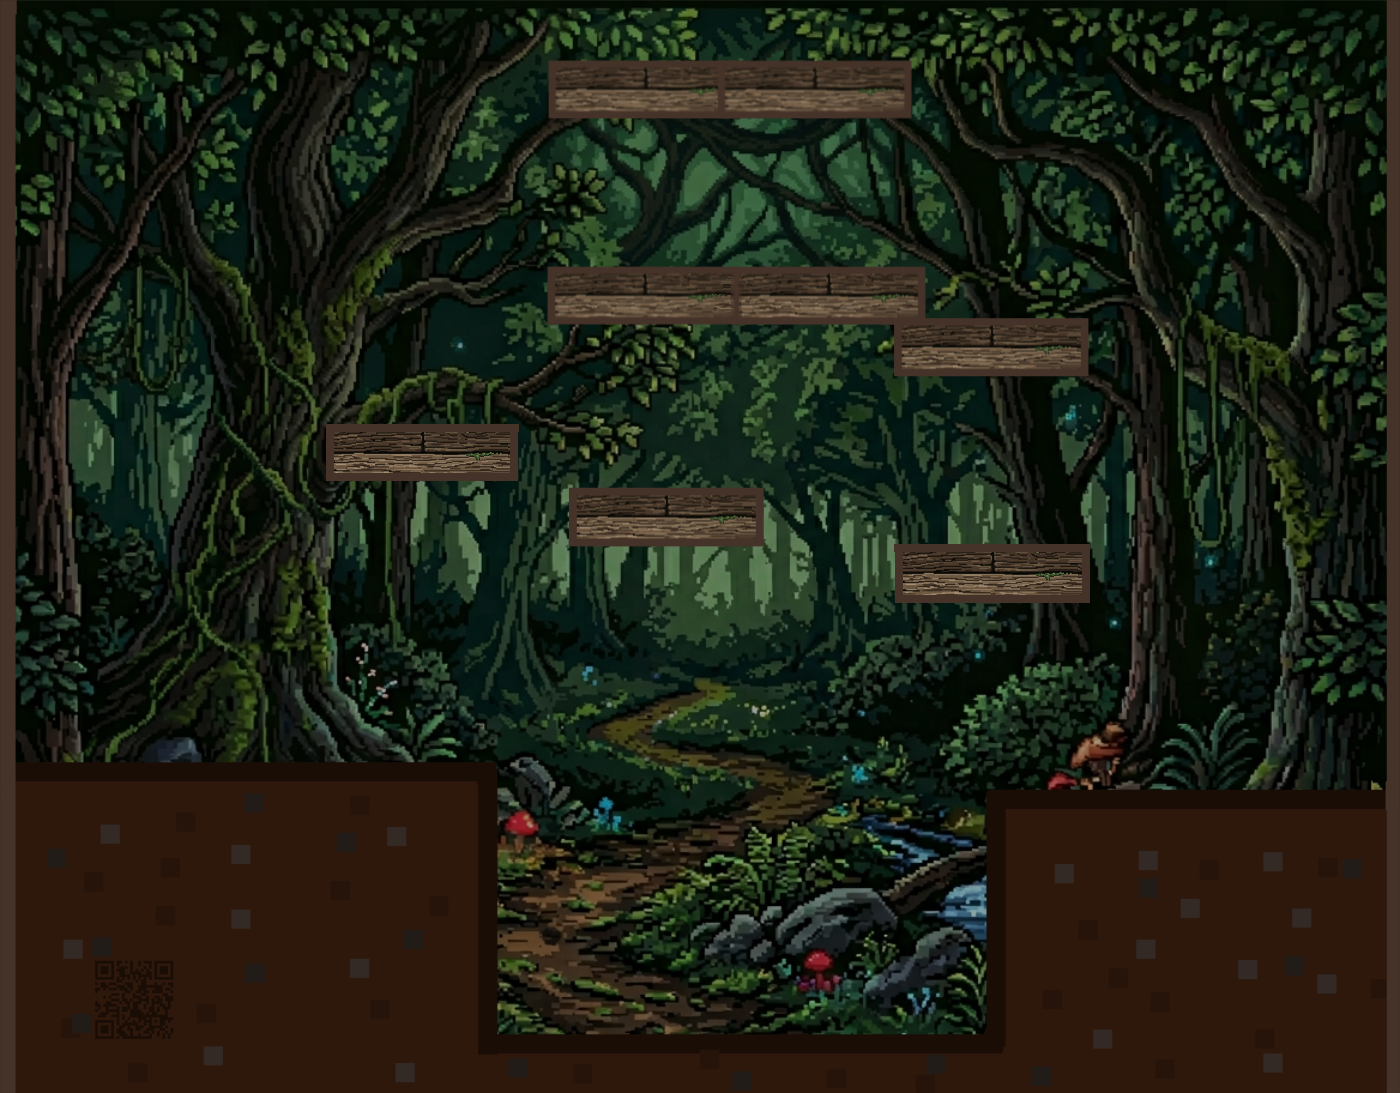
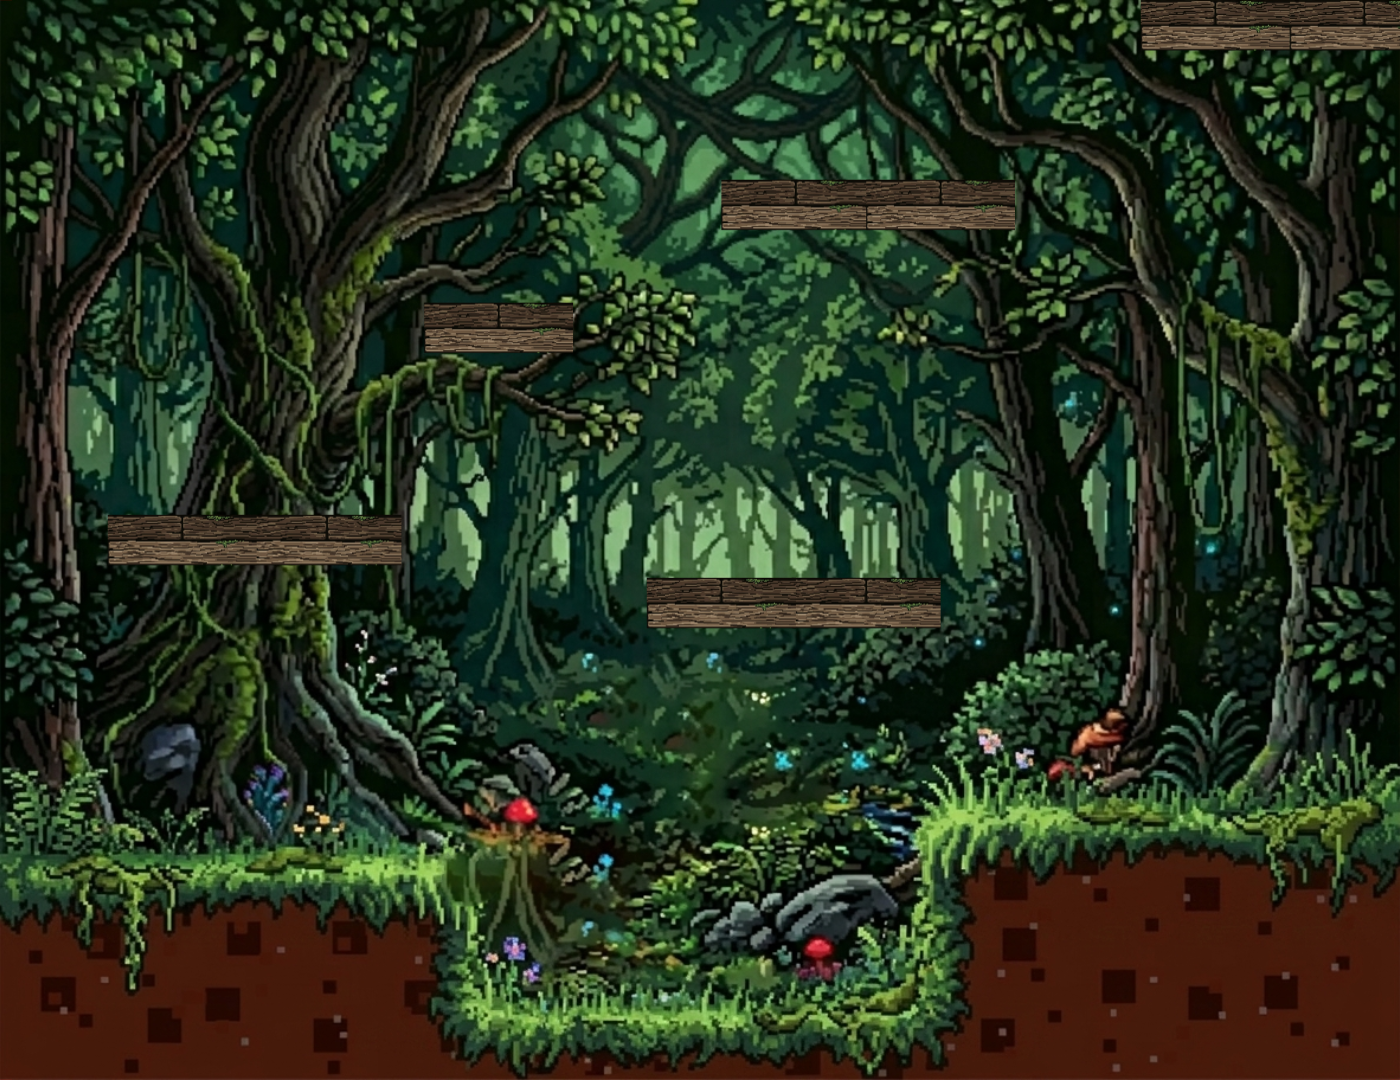
changed levels, added smooth movement and velocity that bleeds out when falling

diff --git a/src/Windows/GameLoop.java b/src/Windows/GameLoop.java
@@ -15,7 +15,7 @@ public class GameLoop implements Runnable{
 
     private GamePanel panel;
     private final Player player;
-    private final int FPS = 120;
+    private final int FPS = 90;
     private BufferedImage image;
 
 
@@ -65,17 +65,19 @@ public class GameLoop implements Runnable{
             /**
              * Level background changing logic
              */
-            if(player.getY()<0){
+            if(player.getY()<5){
                 player.setCurrLevel(player.getCurrLevel()+1);
                 System.out.println("level changed");
                 player.setY(990);
                 panel.setLevelChanged(true);
+                panel.repaint();
             }
             else if(player.getY()>990&&player.getCurrLevel()!=0){
                 player.setCurrLevel(player.getCurrLevel()-1);
                 System.out.println("level changed");
                 player.setY(0);
                 panel.setLevelChanged(true);
+                panel.repaint();
             }
 
             /**
@@ -83,14 +85,19 @@ public class GameLoop implements Runnable{
              */
             if(!player.isJumping()&&player.getJumpForce()>0) {
                 player.setJumpForce(player.getJumpForce() - 5);
-                player.setY(player.getY() - 15 );
+                if(!player.getLevel().checkHeadCollision(panel.isLevelChanged(), player.getCurrLevel(), player.getX(), player.getY())) {
+                    player.setY(player.getY() - 15 );
+                }
                 System.out.println("Y"+player.getY());
             }
             else if (!player.isJumping()&&player.getJumpForceL()>0) {
                 player.setJumpForceL(player.getJumpForceL() - 5);
-                player.setY(player.getY() - 12);
+                if(!player.getLevel().checkHeadCollision(panel.isLevelChanged(), player.getCurrLevel(), player.getX(), player.getY())) {
+                    player.setY(player.getY() - 15 );
+                }
                 if (!player.getLevel().checkWallCollision(panel.isLevelChanged(), player.getCurrLevel(), player.getX(), player.getY())[0]){
                     player.setX(player.getX() - 10);
+                    player.setVelocity(-30);
                 }
                 else{
                     player.setJumpForceR(20);
@@ -100,9 +107,12 @@ public class GameLoop implements Runnable{
             }
             else if (!player.isJumping()&&player.getJumpForceR()>0) {
                 player.setJumpForceR(player.getJumpForceR() - 5);
-                player.setY(player.getY() - 12);
+                if(!player.getLevel().checkHeadCollision(panel.isLevelChanged(), player.getCurrLevel(), player.getX(), player.getY())) {
+                    player.setY(player.getY() - 15 );
+                }
                 if (!player.getLevel().checkWallCollision(panel.isLevelChanged(), player.getCurrLevel(), player.getX(), player.getY())[1]){
                     player.setX(player.getX() + 10);
+                    player.setVelocity(30);
                 }
                 else{
                     player.setJumpForceL(20);
@@ -114,17 +124,36 @@ public class GameLoop implements Runnable{
             /**
              * Player basic movement
              */
+
+
+
             else if (panel.getPlayer().isWalkingR() && !panel.getPlayer().isJumping() && !player.isFalling()) {
-                if (!player.getLevel().checkWallCollision(panel.isLevelChanged(), player.getCurrLevel(), player.getX(), player.getY())[1]){
-                    player.setX(player.getX() + 5);
-                    System.out.println("right");
+                if (player.getVelocity()!=5){
+                    player.setVelocity(30);
                 }
             }
             else if (player.isWalkingL()&&!panel.getPlayer().isJumping() && !player.isFalling()) {
-                if (!player.getLevel().checkWallCollision(panel.isLevelChanged(), player.getCurrLevel(), player.getX(), player.getY())[0]){
-                    player.setX(player.getX() - 5);
-                    System.out.println("left");
+                if (player.getVelocity()!=-5){
+                    player.setVelocity(-30);
                 }
+            }
+
+            if (player.getVelocity()!=0 && !panel.getPlayer().isJumping()){
+                if (player.getVelocity()<0 && !player.getLevel().checkWallCollision(panel.isLevelChanged(), player.getCurrLevel(), player.getX(), player.getY())[0] && !player.isFalling()){
+                    player.setX(player.getX() + player.getVelocity()/15);
+                }
+                else if (player.getVelocity()>0 && !player.getLevel().checkWallCollision(panel.isLevelChanged(), player.getCurrLevel(), player.getX(), player.getY())[1] && !player.isFalling()) {
+                    player.setX(player.getX() + player.getVelocity()/15);
+                }
+
+                if (!player.isWalkingR() && player.getVelocity()>0 && !player.isJumping()){
+                    player.setVelocity(player.getVelocity() -1);
+                }
+                else if (!player.isWalkingL() && player.getVelocity()<0 && player.getJumpForce()==0 && player.getJumpForceL()==0 && player.getJumpForceR()==0){
+                    player.setVelocity(player.getVelocity() +1);
+                }
+
+
             }
 
             /**
@@ -168,6 +197,14 @@ public class GameLoop implements Runnable{
              */
             if (player.isFalling()){
                 player.setY(player.getY()+ player.getFallingSpeed());
+                player.setX(player.getX() + player.getVelocity()/5);
+                if (player.getVelocity()>0){
+                    player.setVelocity(player.getVelocity()-1);
+                }
+                else if (player.getVelocity()<0){
+                    player.setVelocity(player.getVelocity()+1);
+                }
+
             }
 
 

diff --git a/src/Map/Levels.java b/src/Map/Levels.java
@@ -13,8 +13,9 @@ public class Levels {
 
     private int currLevel;
     private final String[] levelMap = {"res/levels/level11.png","res/levels/level12.png"};
+    private final String[] collisionMap = {"res/levels/collisionMaps/clevel11.png","res/levels/collisionMaps/clevel12.png"};
 
-    private final int[] collisionColors = {new Color(26,13,6).getRGB(), new Color(69,50,40).getRGB()};
+    private final int[] collisionColors = {new Color(255,0,0).getRGB(), new Color(69,50,40).getRGB()};
     private BufferedImage image;
 
 
@@ -24,7 +25,7 @@ public class Levels {
         this.currLevel = currLevel;
 
         try {
-            fis = new FileInputStream(levelMap[currLevel]);
+            fis = new FileInputStream(collisionMap[currLevel]);
             image = ImageIO.read(fis);
         } catch (IOException e) {
             throw new RuntimeException(e);
@@ -39,7 +40,7 @@ public class Levels {
 
         if (levelChanged) {
             try {
-                fis = new FileInputStream(levelMap[playerLevel]);
+                fis = new FileInputStream(collisionMap[playerLevel]);
                 image = ImageIO.read(fis);
                 System.out.println(" collision map changed");
             } catch (IOException e) {
@@ -61,6 +62,34 @@ public class Levels {
         return collision;
     }
 
+    public boolean checkHeadCollision(boolean levelChanged, int playerLevel, int x, int y) {
+        boolean collision = false;
+        x = x+15;
+
+        if (levelChanged) {
+            try {
+                fis = new FileInputStream(collisionMap[playerLevel]);
+                image = ImageIO.read(fis);
+                System.out.println(" collision map changed");
+            } catch (IOException e) {
+                throw new RuntimeException(e);
+            }
+        }
+
+        for (int i = 0; i <collisionColors.length; i++){
+            try {
+                if (image.getRGB(x, y) == collisionColors[i] && y>20){
+                    collision = true;
+                    System.out.println("head collision");
+                }
+            }catch (ArrayIndexOutOfBoundsException e){
+                System.err.println("player is out of bounds "+e.getMessage());
+            }
+
+        }
+        return collision;
+    }
+
     public boolean[] checkWallCollision(boolean levelChanged, int playerLevel, int x, int y) {
         int x1 = x-1;
         int x2 = x+31;
@@ -71,7 +100,7 @@ public class Levels {
 
         if (levelChanged) {
             try {
-                fis = new FileInputStream(levelMap[playerLevel]);
+                fis = new FileInputStream(collisionMap[playerLevel]);
                 image = ImageIO.read(fis);
             } catch (IOException e) {
                 throw new RuntimeException(e);

diff --git a/src/Windows/GameScreen.java b/src/Windows/GameScreen.java
@@ -17,7 +17,7 @@ public class GameScreen extends JFrame{
     public GameScreen() {
             super("tomino jumper: jumping");
 
-            gamePanel = new GamePanel(700,940);
+            gamePanel = new GamePanel(700,900);
             gameLoop = new GameLoop(gamePanel, gamePanel.getPlayer());
             gameThread = new Thread(gameLoop);
         }
@@ -25,7 +25,7 @@ public class GameScreen extends JFrame{
         public void init () {
             setDefaultCloseOperation(JFrame.EXIT_ON_CLOSE);
             setResizable(false);
-            setSize(1416,1093);
+            setSize(1400,1080);
             gameThread.start();
 
             add(gamePanel);

diff --git a/src/Player/Player.java b/src/Player/Player.java
@@ -16,12 +16,21 @@ public class Player {
 
     private boolean isWalkingR;
     private boolean isWalkingL;
+    private int velocity = 0;
 
     private boolean isJumping;
     private int jumpForce;
 
     private int jumpForceR;
     private int jumpForceL;
+
+    public int getVelocity() {
+        return velocity;
+    }
+
+    public void setVelocity(int velocity) {
+        this.velocity = velocity;
+    }
 
     public int getCurrLevel() {
         return currLevel;
